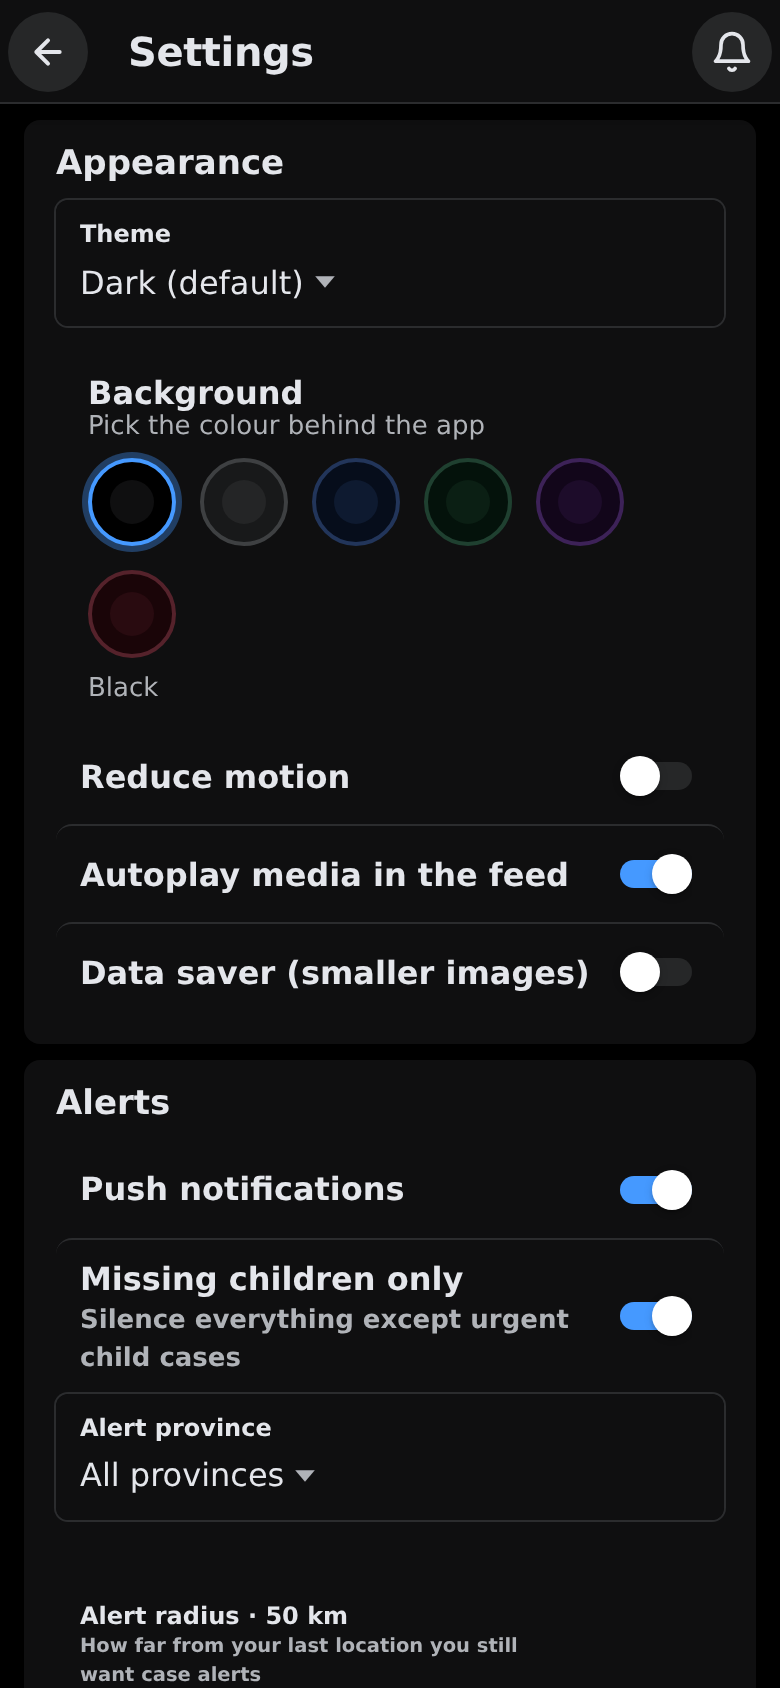
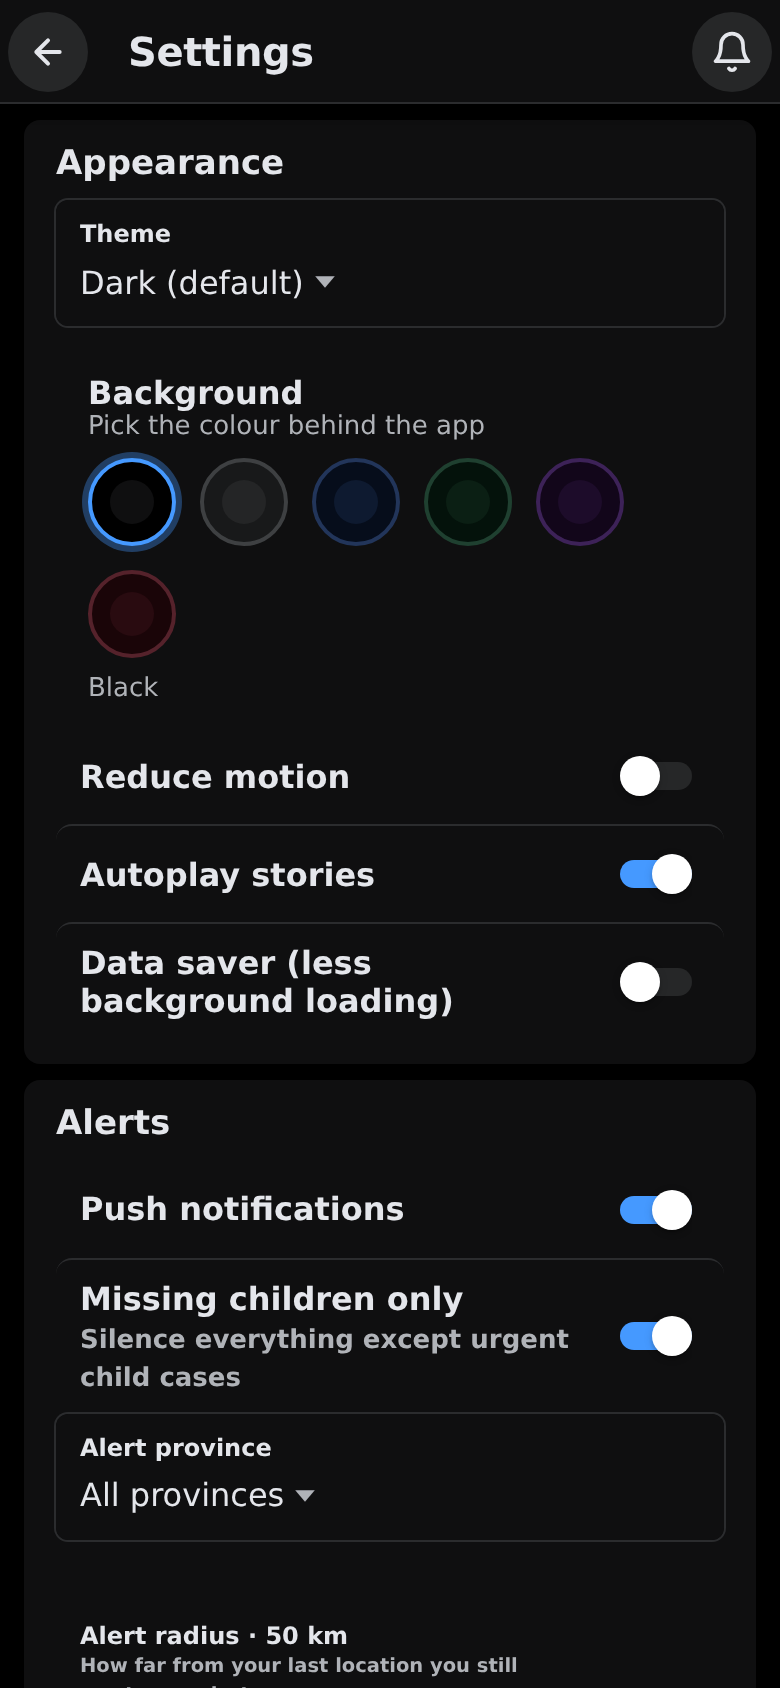
Data saver now actually saves data, and the load numbers are honest
Two switches in Settings → Appearance were stored, rendered and read by nobody:
"Data saver (smaller images)" and "Autoplay media in the feed" changed not one
byte or frame. Found while measuring why the first load pulls ~98 script files.

The cause of those files: core/services/prefetch.service.ts walks the route table
after start-up and imports every screen's chunk, four at a time, yielding in
between. That is why taps are instant - and it is ~550 kB of JavaScript nobody
asked for, on a phone that may be paying for every megabyte.

Fixed:
- prefetch is a choice now. It is skipped when the person switched Data saver on,
  when the phone itself asks for less (navigator.connection.saveData), on 2G, and
  offline. Measured on the production build: 61 requests / 387 kB instead of
  105 / 596 kB, and 3 page chunks at boot instead of 32. A screen then costs its
  chunk when opened (19 ms and 24 kB for Spotlight on localhost);
- autoplay decides whether a story advances on its own;
- both switches renamed to what they do: "Data saver (less background loading)"
  and "Autoplay stories";
- core/prefetch.spec.ts pins the rule. Suite 182 tests, all green.

Corrected numbers, and the old ones were mine: docs/QUALITY.md claimed 456 kB and
FCP 128-160 ms. That was a browser cache that was not cold and a window that ended
before the last chunks arrived. tools/measure-load.mjs uses a fresh context per
run: cold load 596 kB / 105 requests / FCP 224-288 ms, reload 0 kB. serve-www.mjs
[…]

diff --git a/lulafind/src/app/core/services/prefetch.service.ts b/lulafind/src/app/core/services/prefetch.service.ts
@@ -1,5 +1,6 @@
 import { Injectable, inject, signal } from '@angular/core';
 import { Router } from '@angular/router';
+import { SettingsService } from './settings.service';
 
 /**
  * Makes navigation feel instant.
@@ -7,13 +8,21 @@ import { Router } from '@angular/router';
  * Every screen is its own lazily-loaded chunk. The first tap used to wait on
  * the network. This walks the route table and imports every screen as soon as
  * the app starts, a few at a time, so the code is already in memory.
+ *
+ * It is a real download - the whole app, roughly half a megabyte - so it is
+ * skipped when the person asked to save data (the Data saver switch, or the
+ * phone's own "reduce data" setting), on a slow connection (2G), and when the
+ * app is offline. A tap can still warm one screen on demand (`warm`).
  */
 @Injectable({ providedIn: 'root' })
 export class PrefetchService {
   private router = inject(Router);
+  private settings = inject(SettingsService);
 
   readonly done = signal(false);
   readonly count = signal(0);
+  /** True when the background walk was skipped to save data. */
+  readonly skipped = signal(false);
 
   private started = false;
 
@@ -21,6 +30,11 @@ export class PrefetchService {
   start(delayMs = 0): void {
     if (this.started) return;
     this.started = true;
+    if (!prefetchAllowed(environmentForPrefetch(this.settings))) {
+      this.skipped.set(true);
+      this.done.set(true);
+      return;
+    }
     const kick = () => void this.run();
     if (delayMs > 0 && typeof setTimeout !== 'undefined') setTimeout(kick, delayMs);
     else kick();
@@ -63,4 +77,46 @@ function collectLoaders(routes: unknown[], out: Array<() => Promise<unknown>> = 
     if (Array.isArray(children)) collectLoaders(children, out);
   }
   return out;
+}
+
+/** What the decision needs to know. Kept as plain data so it can be tested. */
+export interface PrefetchEnv {
+  /** The person's own Data saver switch. */
+  dataSaving: boolean;
+  /** The phone or browser asking apps to reduce data. */
+  saveData?: boolean;
+  /** navigator.connection.effectiveType when the browser reports it. */
+  effectiveType?: string;
+  online?: boolean;
+}
+
+/**
+ * Should the app pull every screen down in the background?
+ *
+ * Half a megabyte is worth it on wifi and cheap on a modern phone plan; it is
+ * not worth it when someone has said they are saving data, when their phone
+ * asks for less, or on a 2G link. The app still works - a screen loads when it
+ * is opened, it just takes the network round-trip it would have taken anyway.
+ */
+export function prefetchAllowed(env: PrefetchEnv): boolean {
+  if (env.online === false) return false;
+  if (env.dataSaving) return false;
+  if (env.saveData) return false;
+  const type = (env.effectiveType ?? '').toLowerCase();
+  if (type === 'slow-2g' || type === '2g') return false;
+  return true;
+}
+
+/** Read the browser's connection facts, if it has any. */
+function environmentForPrefetch(settings: SettingsService): PrefetchEnv {
+  const nav = typeof navigator === 'undefined' ? undefined : (navigator as Navigator & {
+    connection?: { saveData?: boolean; effectiveType?: string };
+  });
+  const conn = nav?.connection;
+  return {
+    dataSaving: settings.settings().dataSaving,
+    saveData: conn?.saveData,
+    effectiveType: conn?.effectiveType,
+    online: nav ? nav.onLine : true
+  };
 }

diff --git a/lulafind/src/app/core/prefetch.spec.ts b/lulafind/src/app/core/prefetch.spec.ts
@@ -1,0 +1,32 @@
+import { prefetchAllowed } from './services/prefetch.service';
+
+/**
+ * The background download of every screen is half a megabyte. These pin the
+ * rule: it happens on a normal connection, and it does not happen when someone
+ * has asked to save data, when the phone asks for less, or on a slow link.
+ */
+describe('Prefetching every screen is a choice, not a default', () => {
+  it('runs on a normal connection', () => {
+    expect(prefetchAllowed({ dataSaving: false, saveData: false, effectiveType: '4g', online: true })).toBe(true);
+    expect(prefetchAllowed({ dataSaving: false })).toBe(true);
+    expect(prefetchAllowed({ dataSaving: false, effectiveType: '3g', online: true })).toBe(true);
+  });
+
+  it('stops when the person switched Data saver on', () => {
+    expect(prefetchAllowed({ dataSaving: true, effectiveType: '4g' })).toBe(false);
+  });
+
+  it('stops when the phone asks apps to reduce data', () => {
+    expect(prefetchAllowed({ dataSaving: false, saveData: true, effectiveType: '4g' })).toBe(false);
+  });
+
+  it('stops on 2G', () => {
+    expect(prefetchAllowed({ dataSaving: false, effectiveType: '2g' })).toBe(false);
+    expect(prefetchAllowed({ dataSaving: false, effectiveType: 'slow-2g' })).toBe(false);
+    expect(prefetchAllowed({ dataSaving: false, effectiveType: 'SLOW-2G' })).toBe(false);
+  });
+
+  it('stops when the app is offline', () => {
+    expect(prefetchAllowed({ dataSaving: false, effectiveType: '4g', online: false })).toBe(false);
+  });
+});

diff --git a/lulafind/src/app/pages/story/story-viewer.component.ts b/lulafind/src/app/pages/story/story-viewer.component.ts
@@ -2,6 +2,7 @@ import { Component, OnDestroy, OnInit, computed, effect, inject, signal } from '
 import { ActivatedRoute, Router } from '@angular/router';
 import { IconComponent } from '../../shared/components/icon.component';
 import { AvatarComponent } from '../../shared/components/avatar.component';
+import { SettingsService } from '../../core/services/settings.service';
 import { DataService } from '../../core/services/data.service';
 import { AuthService } from '../../core/services/auth.service';
 import { Story } from '../../core/models/types';
@@ -167,6 +168,7 @@ const HOLD_MS = 420;
 export class StoryViewerComponent implements OnInit, OnDestroy {
   protected data = inject(DataService);
   private auth = inject(AuthService);
+  private settings = inject(SettingsService);
   private route = inject(ActivatedRoute);
   private router = inject(Router);
 
@@ -290,6 +292,11 @@ export class StoryViewerComponent implements OnInit, OnDestroy {
   private start(): void {
     if (this.timer) clearInterval(this.timer);
     this.pct.set(0);
+    /* Nobody asked for photos to move on their own. The switch in Settings says
+       whether this app may do that, and Data saver turns it off too: a story
+       that waits for a tap downloads nothing in advance. */
+    const s = this.settings.settings();
+    if (!s.autoplayMedia || s.dataSaving) { this.pct.set(0); return; }
     let elapsed = 0;
     const total = this.duration();
     this.timer = setInterval(() => {

diff --git a/lulafind/src/app/pages/settings/settings.component.ts b/lulafind/src/app/pages/settings/settings.component.ts
@@ -66,11 +66,11 @@ import { SUPPORT_EMAIL, SUPPORT_NAME } from '../../core/config';
           <ion-toggle [checked]="s().reduceMotion" (ionChange)="set({ reduceMotion: $any($event.detail).checked })"></ion-toggle>
         </ion-item>
         <ion-item>
-          <ion-label>Autoplay media in the feed</ion-label>
+          <ion-label>Autoplay stories</ion-label>
           <ion-toggle [checked]="s().autoplayMedia" (ionChange)="set({ autoplayMedia: $any($event.detail).checked })"></ion-toggle>
         </ion-item>
         <ion-item>
-          <ion-label>Data saver (smaller images)</ion-label>
+          <ion-label>Data saver (less background loading)</ion-label>
           <ion-toggle [checked]="s().dataSaving" (ionChange)="set({ dataSaving: $any($event.detail).checked })"></ion-toggle>
         </ion-item>
       </section>

diff --git a/docs/SCREEN-AUDIT.md b/docs/SCREEN-AUDIT.md
@@ -26,7 +26,7 @@ No screen may show a block of its *own* copy longer than 30 words. Text written 
 | Search | 15 words | 0 | none | none |
 | Saved | 39 words | 0 | none | none |
 | Connections | 47 words | 0 | none | none |
-| Settings | 262 words | 1 | 30w | none |
+| Settings | 260 words | 1 | 30w | none |
 | Safety centre | 255 words | 3 | 27w | none |
 | Help | 470 words | 3 | 26w | none |
 | Tips | 21 words | 0 | none | none |
@@ -181,7 +181,7 @@ No app paragraphs - labels and values only.
 ### Settings
 
 ```text
-Settings5AppearanceThemeDark (default)LightMatch my phoneBackgroundPick the colour behind the appBlackReduce motionAutoplay media in the feedData saver (smaller images)AlertsPush notificationsMissing children onlySilence everything except urgent child casesAlert provinceAll provincesGautengKwaZulu-NatalWestern CapeEastern CapeFree StateLimpopoMpumalangaNorth WestNorthern CapeAlert radius · 50 kmHow far from your last location you still want case alertsPrivacy & dataSafety & consent centreTerms, privacy and community rulesAdmin - reports and moderationFAQsWho sees your profile is set in Me → Edit profile.Let LulaFind post a case about meOnly after a follower says something is wrong on a lookoutShow my town and last seenEveryone can see the town on your cases and when you were last aroundLet LulaFind match me to casesIf a KhumbulEkhaya post matches your name we will ask you firstHaptic feedbackPhone permissionsOff until you tap Enable. Nothing is read in the background.NotificationsGet alerts when someone comments on your post or a new case appears near you.Unknown Enable CameraTake photos directly when posting a missing person or sighting.Unknown Enable Photos / GalleryUpload photos from your gallery to posts and your profile.Unknown Enable LocationAttach an accurate map pin to sightings. Never used in the background.Unknown Enable  Open phone settings Your dataYour data lives in your account, not in this app's code. Clear cases on this phone About LulaFind 1.0.0 · Web preview · Angular + Ionic + Capacitor. LulaFind is a community tool. It does not replace the South African Police Service. In an emergency call 10111.  Support: support@mkhungela.l@gmail.com · Lulamile at LulaFind. LulaFind is for people 18 and older. Terms and privacyEmail support Change email  Change password  Sign out  Delete my account and data
+Settings5AppearanceThemeDark (default)LightMatch my phoneBackgroundPick the colour behind the appBlackReduce motionAutoplay storiesData saver (less background loading)AlertsPush notificationsMissing children onlySilence everything except urgent child casesAlert provinceAll provincesGautengKwaZulu-NatalWestern CapeEastern CapeFree StateLimpopoMpumalangaNorth WestNorthern CapeAlert radius · 50 kmHow far from your last location you still want case alertsPrivacy & dataSafety & consent centreTerms, privacy and community rulesAdmin - reports and moderationFAQsWho sees your profile is set in Me → Edit profile.Let LulaFind post a case about meOnly after a follower says something is wrong on a lookoutShow my town and last seenEveryone can see the town on your cases and when you were last aroundLet LulaFind match me to casesIf a KhumbulEkhaya post matches your name we will ask you firstHaptic feedbackPhone permissionsOff until you tap Enable. Nothing is read in the background.NotificationsGet alerts when someone comments on your post or a new case appears near you.Unknown Enable CameraTake photos directly when posting a missing person or sighting.Unknown Enable Photos / GalleryUpload photos from your gallery to posts and your profile.Unknown Enable LocationAttach an accurate map pin to sightings. Never used in the background.Unknown Enable  Open phone settings Your dataYour data lives in your account, not in this app's code. Clear cases on this phone About LulaFind 1.0.0 · Web preview · Angular + Ionic + Capacitor. LulaFind is a community tool. It does not replace the South African Police Service. In an emergency call 10111.  Support: support@mkhungela.l@gmail.com · Lulamile at LulaFind. LulaFind is for people 18 and older. Terms and privacyEmail support Change email  Change password  Sign out  Delete my account and data
 ```
 - 30 words of app copy: "LulaFind 1.0.0 · Web preview · Angular + Ionic + Capacitor. LulaFind is a community tool. It does not replace the South African Police Service. In an emergency call ."
 
@@ -189,7 +189,7 @@ Settings5AppearanceThemeDark (default)LightMatch my phoneBackgroundPick the colo
 ### Safety centre
 
 ```text
-Safety & consent centre5 LulaFind never reads anyone's location without that person's own consent, and never sends a case to the police or an NGO. Get help has the real numbers. My locationPermission: unknownNo location has been read yet. Read my location  Forget my location Safety beaconSend "I am safe" check-ins with your location to people you choose. Off by default.Beacon enabled Send an "I am safe" check-in now Be on the lookout Tell your followers you may not feel safe where you are going. They see the area, and 24 hours later we ask them to check on you. Where are you going, or which area worries you?Anything your followers should know? (optional)Attach where I am now, so my followers see it Start the lookout If I go missing A lookout only becomes a case if a follower says something is wrong. This decides whether LulaFind may post that case, and who sees it. Let LulaFind post a case about meOff by default. Without it, a "no" answer never becomes a post.Being foundWe can ask you if a case is about you. Your account is never handed to the family.Allow name matchingConsent log on my casesFamily reported at the station and messaged Pink Ladies. LulaFind did not send the caseHelp find Thato Mokoena, 14 - last · 27 Sept 2026, 08:21expires 27 Oct 2026, 07:51Photos stay on this case unless the family shares the linkHelp find Thato Mokoena, 14 - last · 27 Sept 2026, 08:21expires 27 Oct 2026, 07:51 Privacy & data settings
+Safety & consent centre5 LulaFind never reads anyone's location without that person's own consent, and never sends a case to the police or an NGO. Get help has the real numbers. My locationPermission: unknownNo location has been read yet. Read my location  Forget my location Safety beaconSend "I am safe" check-ins with your location to people you choose. Off by default.Beacon enabled Send an "I am safe" check-in now Be on the lookout Tell your followers you may not feel safe where you are going. They see the area, and 24 hours later we ask them to check on you. Where are you going, or which area worries you?Anything your followers should know? (optional)Attach where I am now, so my followers see it Start the lookout If I go missing A lookout only becomes a case if a follower says something is wrong. This decides whether LulaFind may post that case, and who sees it. Let LulaFind post a case about meOff by default. Without it, a "no" answer never becomes a post.Being foundWe can ask you if a case is about you. Your account is never handed to the family.Allow name matchingConsent log on my casesFamily reported at the station and messaged Pink Ladies. LulaFind did not send the caseHelp find Thato Mokoena, 14 - last · 27 Sept 2026, 08:58expires 27 Oct 2026, 08:28Photos stay on this case unless the family shares the linkHelp find Thato Mokoena, 14 - last · 27 Sept 2026, 08:58expires 27 Oct 2026, 08:28 Privacy & data settings
 ```
 - 27 words of app copy: "Tell your followers you may not feel safe where you are going. They see the area, and 24 hours later we ask them to check on you."
 - 25 words of app copy: "LulaFind never reads anyone's location without that person's own consent, and never sends a case to the police or an NGO. has the real numbers."

diff --git a/docs/QUALITY.md b/docs/QUALITY.md
@@ -48,24 +48,40 @@ Words above the fold, worst screen at each width:
 The rule applied is the phone one (≤ 220 words up front on a screen ≤ 414 px); a desktop fits more
 by design. It is a floor and a ceiling lower than a typical news page's standfirst.
 
-### 4. Loads instantly — yes on a real host; the dev server is not the app
+### 4. Loads instantly — yes, and here is exactly what a phone downloads
 
-Two numbers, both honest:
+Measured on the production build served by `tools/serve-www.mjs` (compressed,
+hashed files cached for a year), each run a fresh cache and a fresh context:
 
-| What | Measured |
+| | Measured |
 | --- | --- |
-| Production build, first load, localhost | **FCP 128–160 ms**, 456 kB of minified, compressed scripts + styles across 73 requests, TTFB 3 ms |
-| Production build, reload in the same tab | **FCP ~136 ms**, 0 kB transferred (hashed files cached forever, `index.html` never) |
-| Dev server (`ng serve`, unminified, hot reload) | FCP ~120–260 ms, 246 module requests — only meaningful as a development number |
+| First load (`/` or `/home`) | **FCP 224–288 ms**, TTFB 2–3 ms, 105 requests, **596 kB** (js 587, css 8) |
+| The screen's own bundle before it paints | 315 kB transfer (the build's "initial total") |
+| The rest of the app | ~280 kB, fetched **after** the first paint (see below) |
+| Every tap after that | 11–24 ms (the code is already in memory) |
 
-What changed to get there:
+**Correction.** An earlier version of this page said 456 kB and FCP 128–160 ms.
+That was measured with a browser cache that was not actually cold and a 900 ms
+window that cut off before the last chunks arrived. The numbers above are from
+`tools/measure-load.mjs`, which uses a new context per run and waits for the page
+to settle. The app did not change; the measurement did.
 
-- the production config had **no minification at all**: `optimization` was off, so the browser
-  downloaded 2.3 MB of readable JavaScript (566 kB `main` alone). It is now `true`;
-- the served assets are **compressed** (brotli, gzip fallback) with a one-year cache on hashed
-  files and `no-cache` on `index.html` — see `tools/serve-www.mjs`, which is also the production
-  preview on port 4300;
-- initial-route budget tightened from 2.5 MB warning to 1.4 MB.
+**Why ~100 requests?** `core/services/prefetch.service.ts` walks the route table
+after start-up and imports every screen's chunk, four at a time, yielding to the
+browser in between. That is why tab switches are instant — the code is already
+there. It is also ~550 kB of JavaScript the person did not explicitly ask for, so
+it is now a choice:
+
+| Data saver | Scripts | JavaScript | Page chunks fetched at boot |
+| --- | --- | --- | --- |
+| off (default) | 98 | 554 kB | 32 (every screen) |
+| **on** | **61** | **387 kB** | **3** (only the ones actually opened) |
+
+The switch is honoured in Settings → Appearance, and the same rule applies
+without touching the app when the phone itself asks for less data
+(`navigator.connection.saveData`), on 2G, or offline. With it on, a screen costs
+one chunk when it is opened: measured 19 ms and 24 kB for Spotlight on this
+machine, and one network round-trip on a real one.
 
 ### 5. Interacts instantly — yes
 
@@ -90,6 +106,13 @@ What changed to get there:
 - `Tips` opened on 226–264 words of emergency numbers and tips at 768 px and up; the reading rule
   now applies to phones, and the screen keeps its own title.
 
+**Two switches that did nothing**
+- "Data saver (smaller images)" and "Autoplay media in the feed" were stored and
+  shown, and no code read them: not one byte or frame changed. Data saver now
+  stops the background download of every screen (measured above) and autoplay now
+  decides whether a story advances on its own — renamed to say what they do:
+  "Data saver (less background loading)" and "Autoplay stories".
+
 **Tap targets** (WCAG 2.5.8 asks 24 px; a thumb wants 44 px)
 - `Share this tip` was a 111 x 13 px button → 40 px tall;
 - the follower / following counts on the profile menu were 82 x 15 → 40 px tall;
@@ -113,7 +136,7 @@ What changed to get there:
 
 - **No network throttling.** Everything runs against localhost, so the millisecond numbers are the
   app's own cost, not a 3G download time. The byte counts are the number that matters on mobile
-  data: 456 kB on a cold first load.
+  data: **596 kB on a cold first load, 387 kB with Data saver on**.
 - **One web engine.** Chromium 153 only; Safari and the Android WebView (which is what the APK
   uses) are not measured here.
 - **No screen reader pass.** Contrast, target size and label text are checked; announcement order

diff --git a/lulafind/docs/SESSION-NOTES.md b/lulafind/docs/SESSION-NOTES.md
@@ -315,3 +315,22 @@ preview cannot be used interactively here - the hosted project is unreachable. `
 switches: served by `tools/serve-www.mjs` on 4300 (brotli/gzip, SPA fallback, one-year cache on
 hashed files), it renders the home feed with FCP 60-200 ms and 0 console errors. The production
 numbers in `docs/QUALITY.md` come from the real production build before that.
+
+**Data saver was a switch that changed nothing.** Settings → Appearance had "Data saver (smaller
+images)" and "Autoplay media in the feed", both stored and rendered, and no code read either one.
+While measuring the first load I found why the app pulls ~98 script files: `PrefetchService` walks
+the route table after start-up and imports every screen on purpose, so taps are instant - which is
+~550 kB of JavaScript nobody asked for on a phone in Soweto. Now:
+
+- Data saver (renamed "less background loading") stops the walk, and so does the phone's own
+  `navigator.connection.saveData`, a 2G link, or being offline. Cold load: **387 kB / 61 requests
+  instead of 596 kB / 105**. A screen then costs its chunk when opened - 19 ms and 24 kB for
+  Spotlight on localhost, one round-trip on a real network;
+- Autoplay (renamed "Autoplay stories") decides whether a story advances on its own;
+- `core/prefetch.spec.ts` pins the rule (5 tests, suite now 182).
+
+**Corrected load numbers.** The earlier table in docs/QUALITY.md (456 kB, FCP 128-160 ms) was wrong:
+warm cache, and a window that ended before the last chunks arrived. `tools/measure-load.mjs` uses a
+fresh context per run: cold load is **596 kB / 105 requests / FCP 224-288 ms**, reload 0 kB. The
+production config also had optimization off (2.3 MB of readable JS) - now minified and served
+compressed by `tools/serve-www.mjs`.
